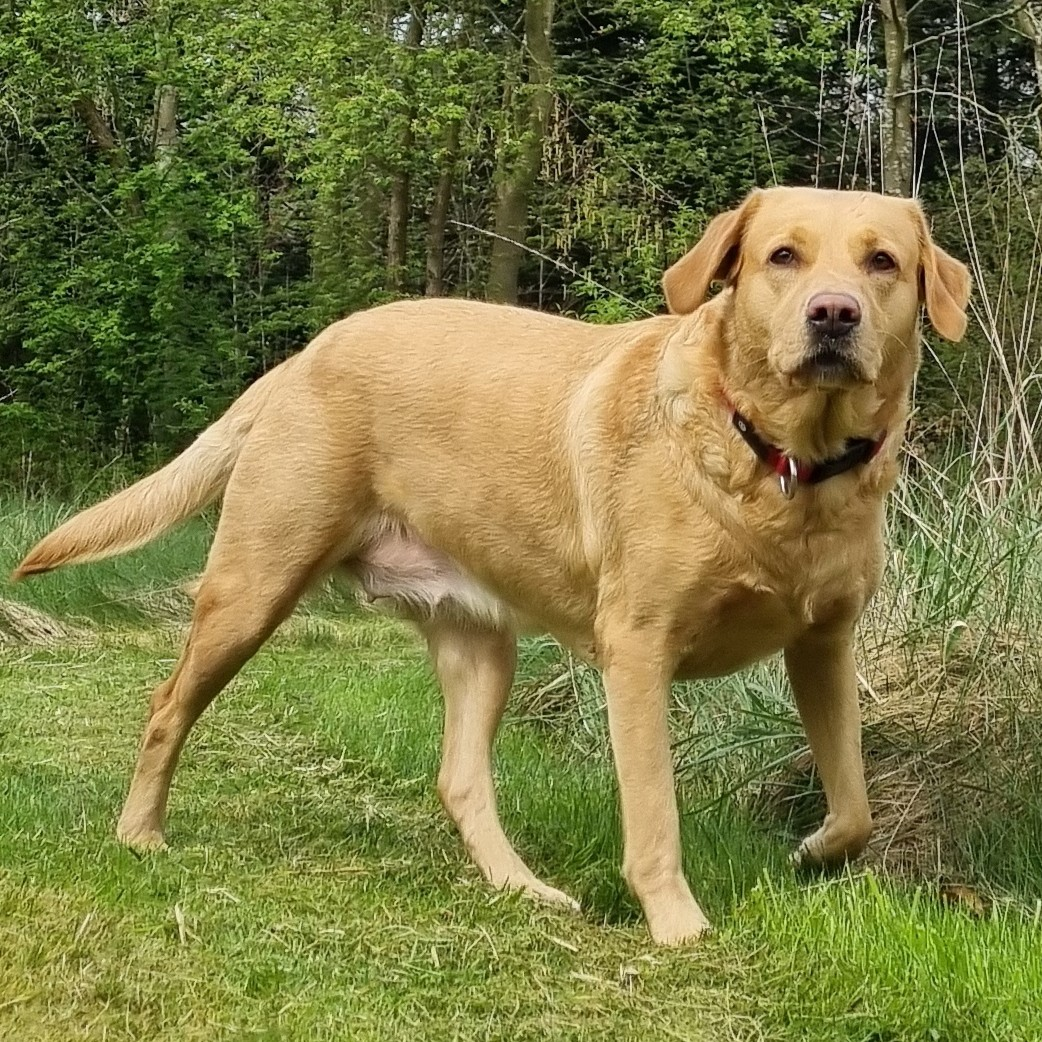
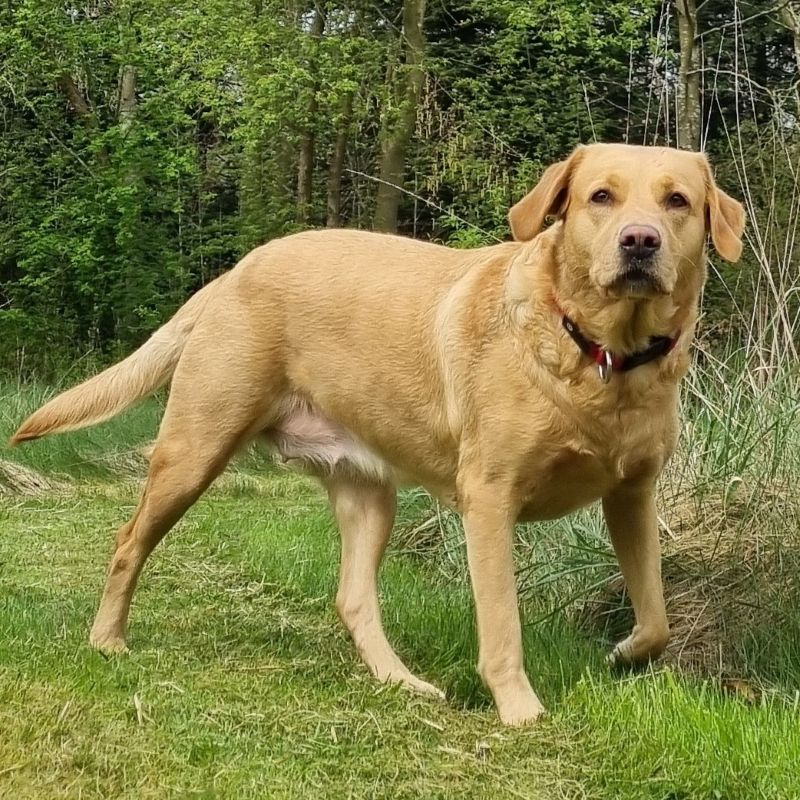
Mindre foto af Chili: 800x800, 190 kB
Var 1042x1042 og 457 kB. Bumper sw.js-cachen til v1.0.2, ellers bliver
telefoner der allerede har hentet den store version ved med at vise den —
fotos gemmes cache-first, og kun et cache-skift rydder dem.

diff --git a/sw.js b/sw.js
@@ -1,5 +1,5 @@
 // Offline-cache. Bump CACHE ved hver udgivelse, så telefonen henter det nye.
-const CACHE = 'matty-v1.0.1';
+const CACHE = 'matty-v1.0.2';
 
 const FILES = [
   './', './index.html', './manifest.webmanifest',
